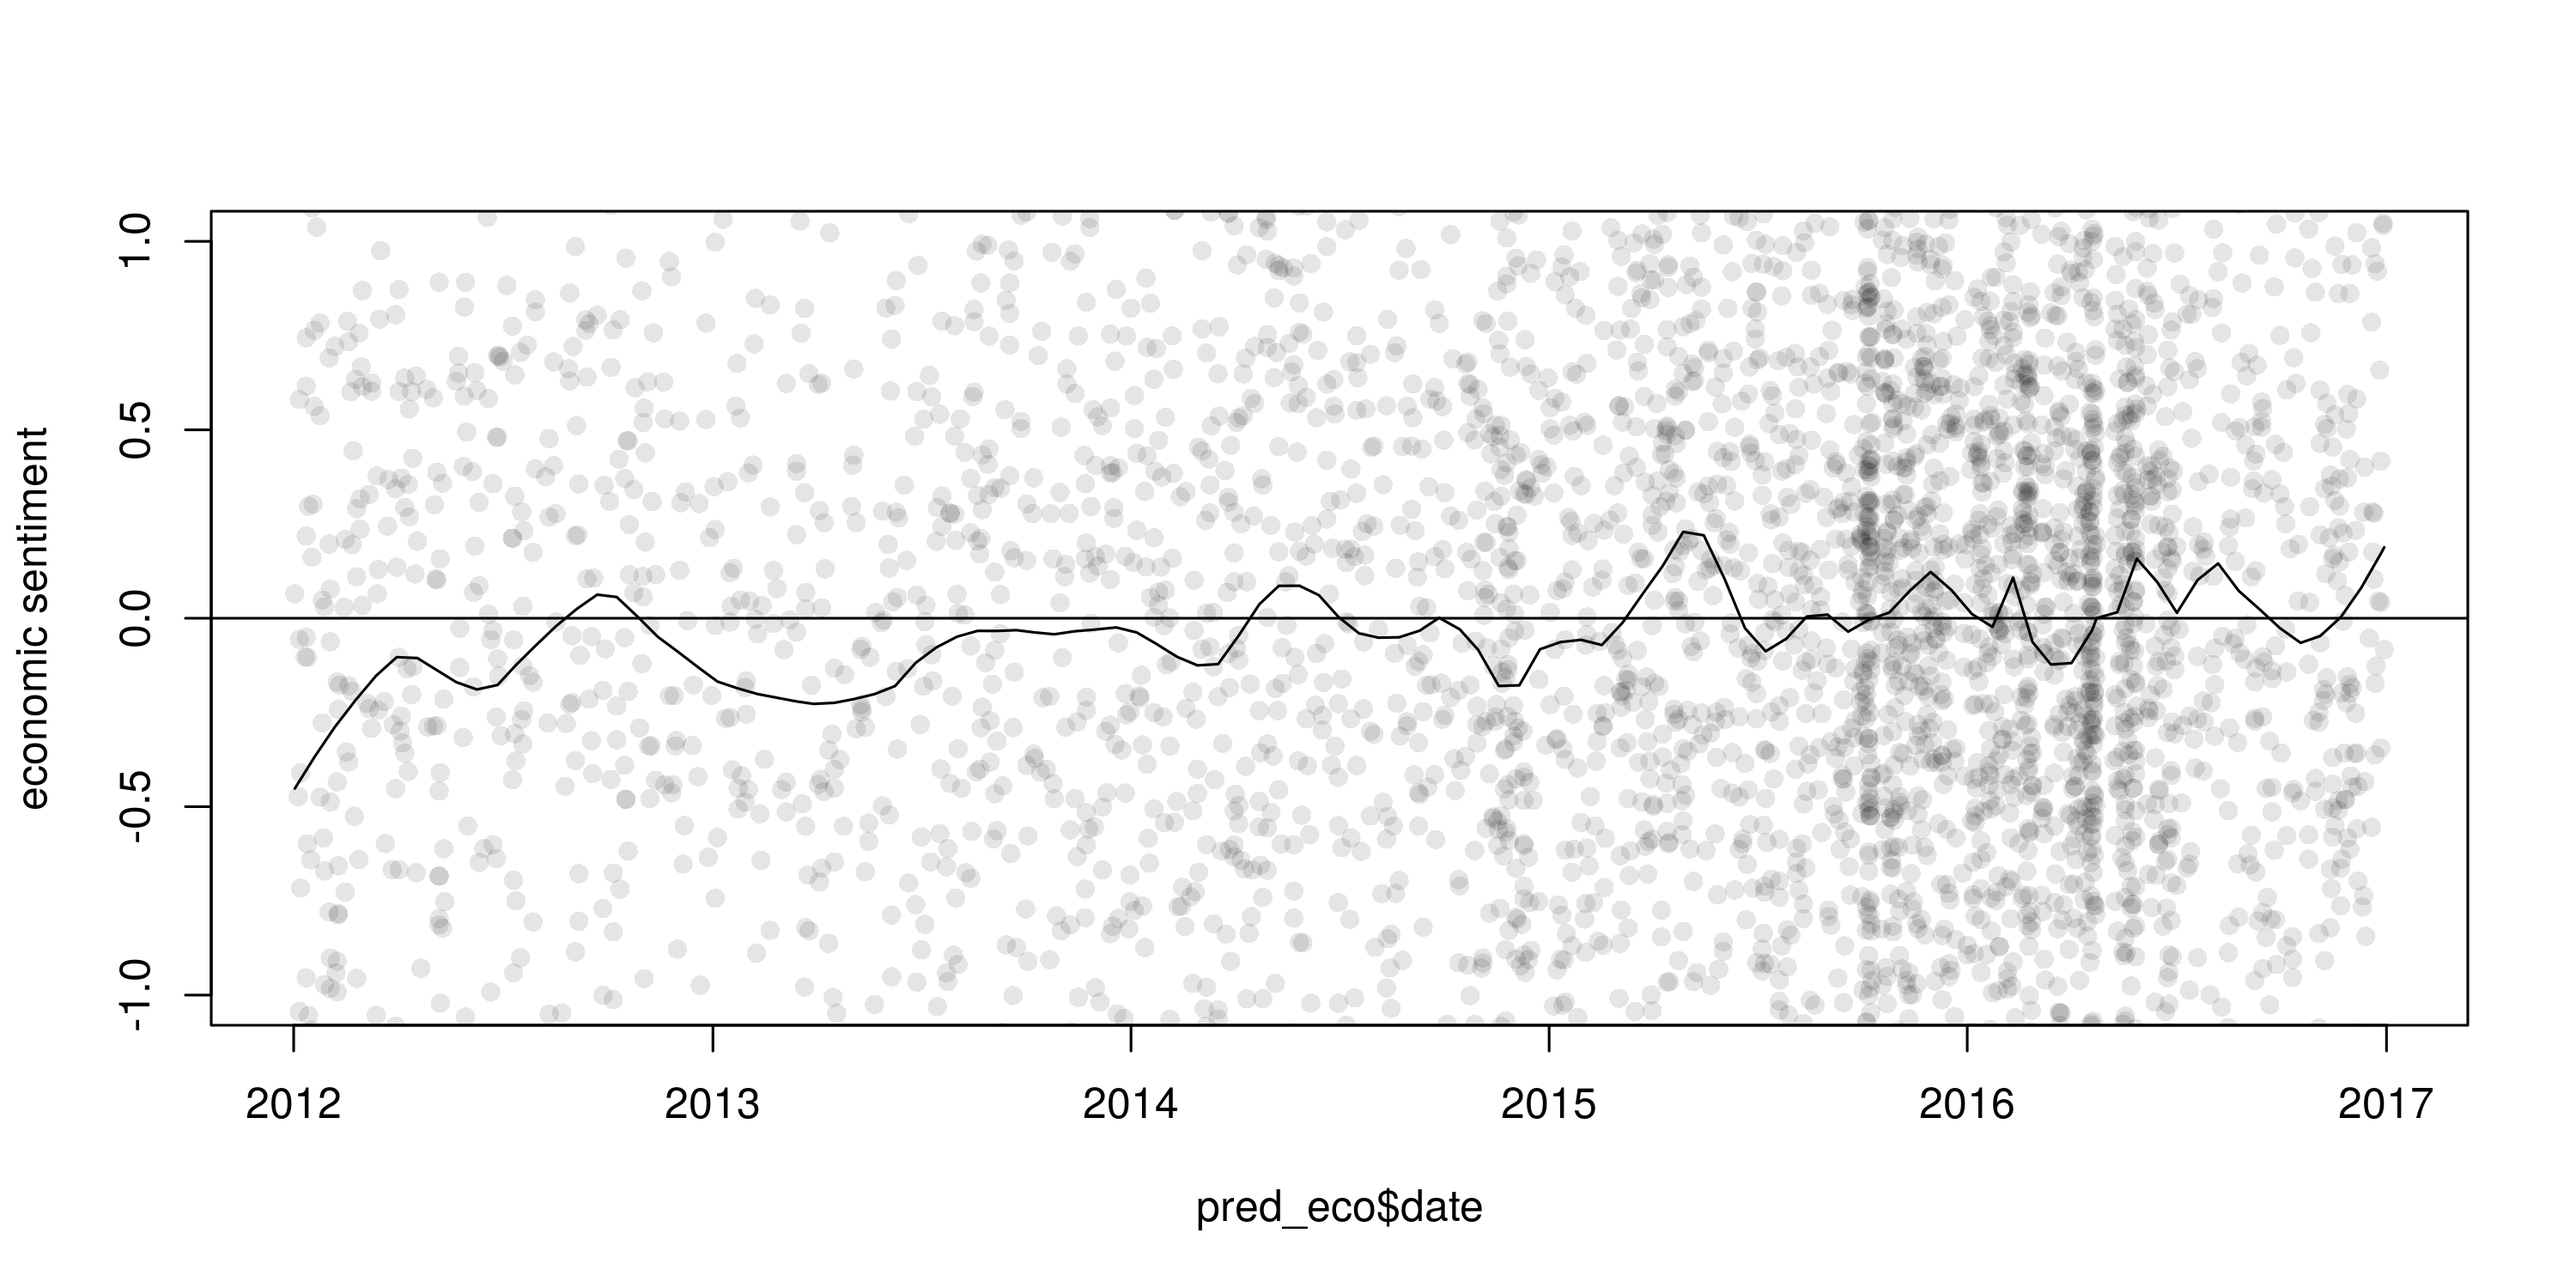
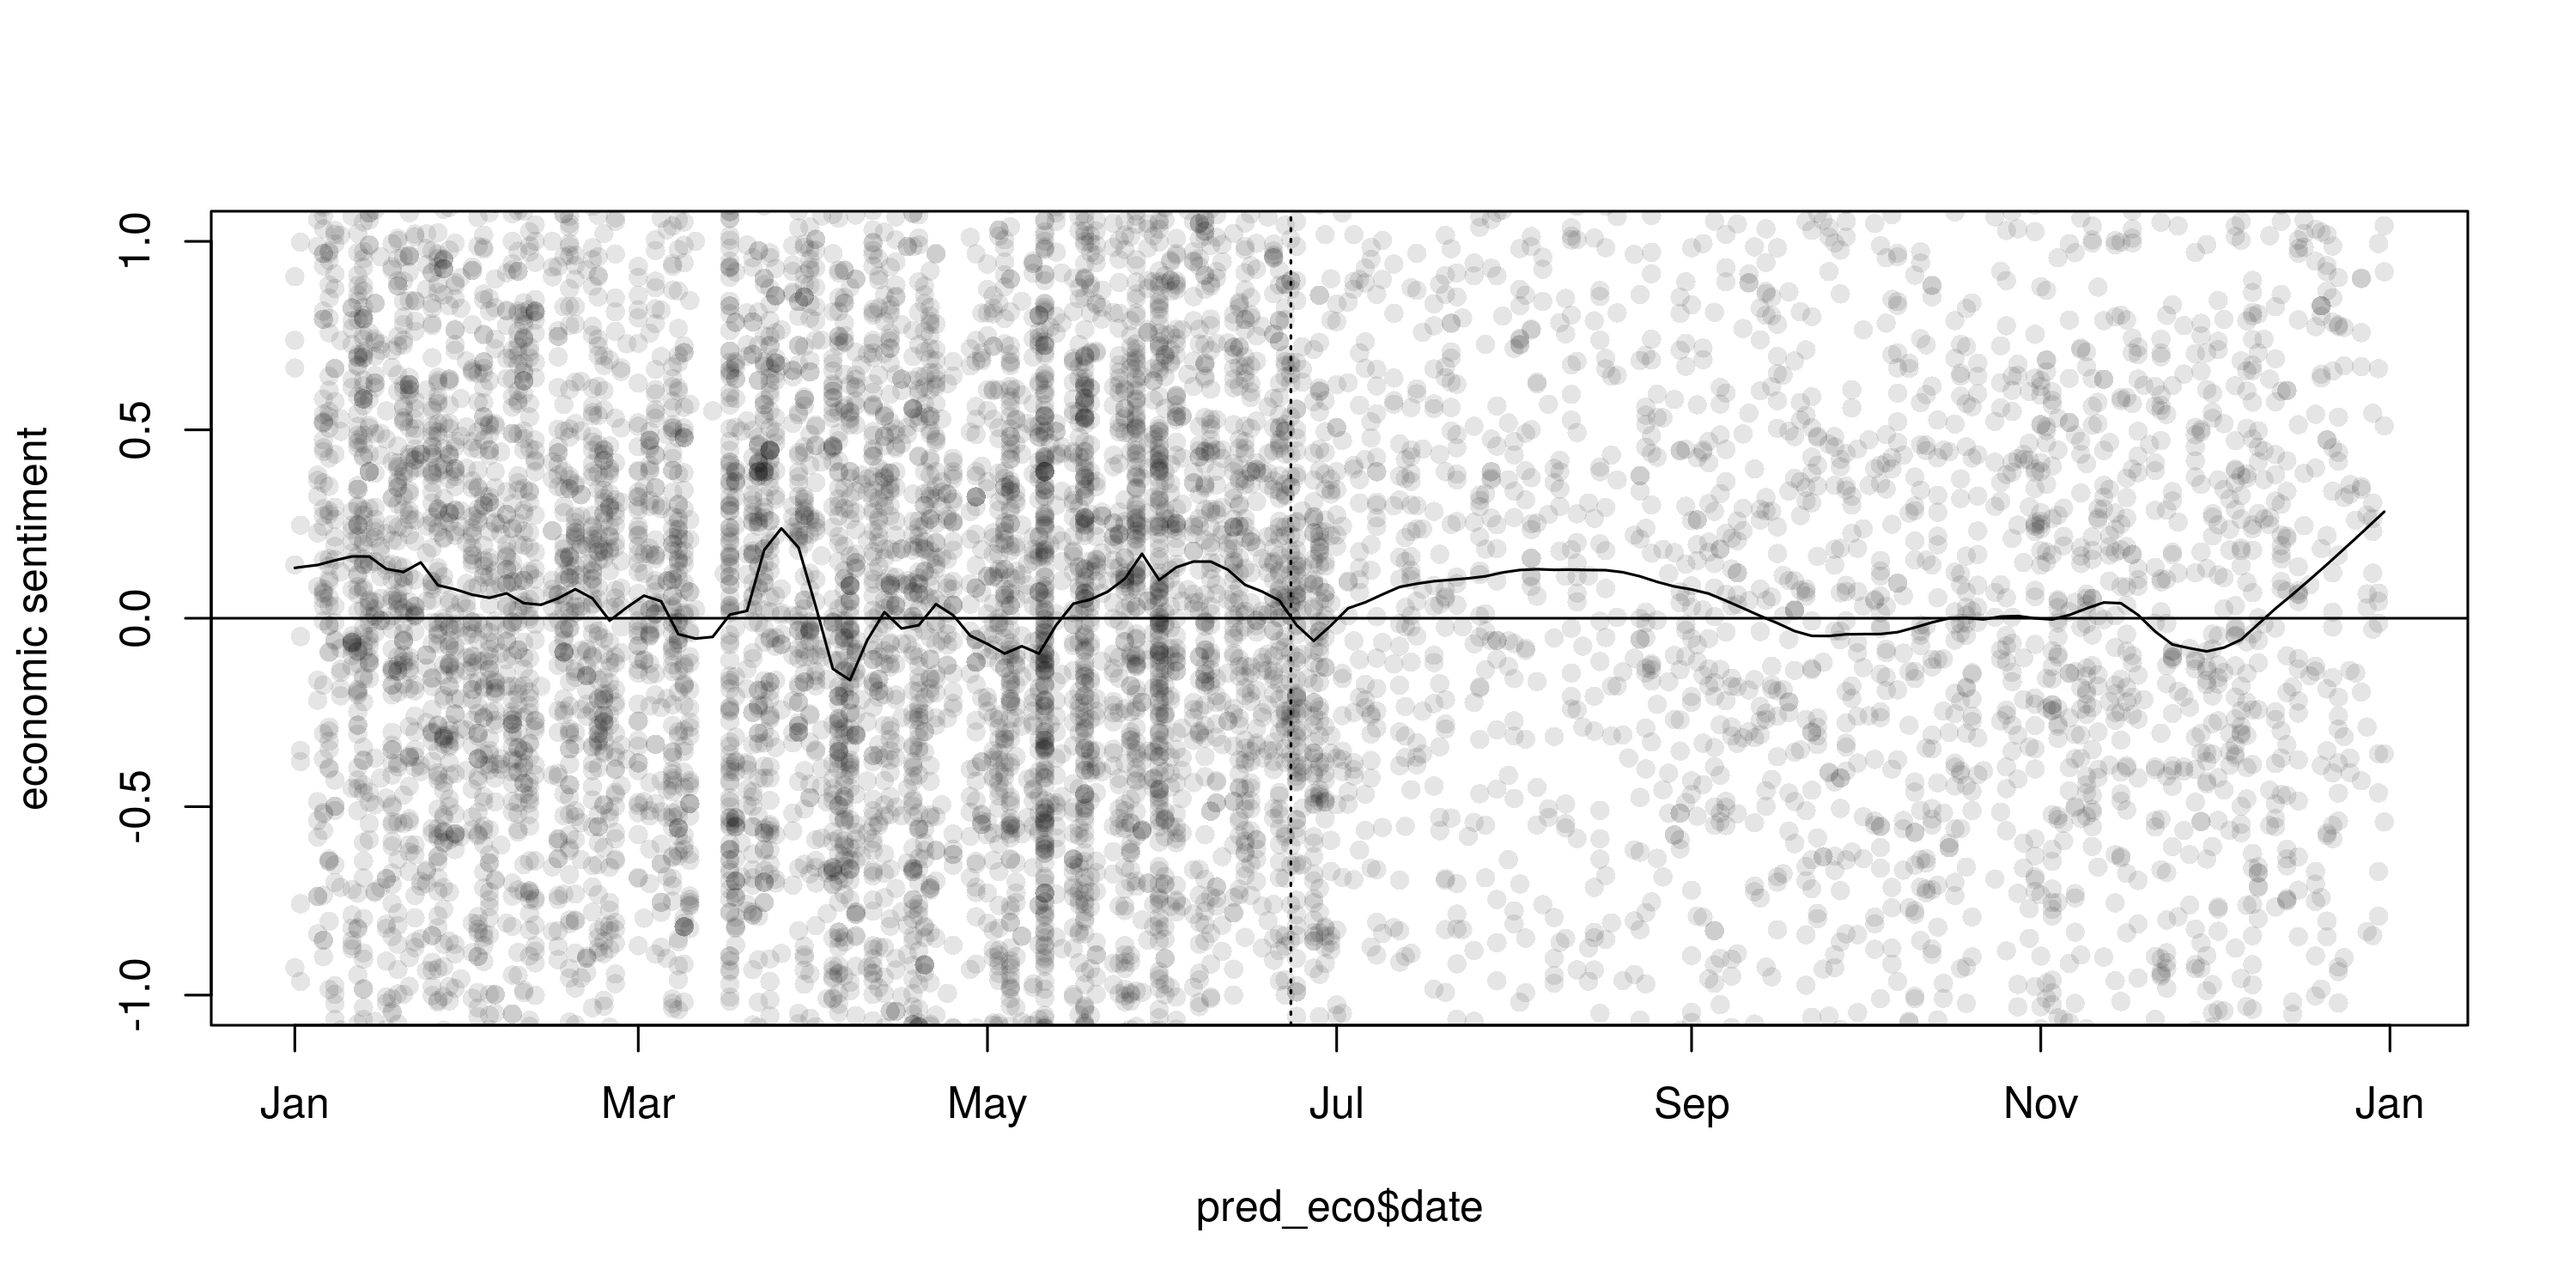
Update README example

diff --git a/README.md b/README.md
@@ -18,7 +18,7 @@ devtools::install_github("koheiw/LSS")
 How to use
 ----------
 
-LSS is created to perform sentiment analysis of long texts, but training of its models should be done on smaller units, typically sentences. The [sample dataset](https://www.dropbox.com/s/555sr2ml6wc701p/guardian-sample.RData?dl=0) contains 6,000 Guardian news articles, but larger corpus should be used to [estimate parameters accurately](https://koheiw.net/?p=629).
+LSS is created to perform sentiment analysis of long texts, but training of its models should be done on smaller units, typically sentences. The [sample sample](https://www.dropbox.com/s/kfhdoifes7z7t6j/data_corpus_guardian2016-10k.RDS?dl=1) contains 10,000 Guardian news articles from 2016.
 
 ### Fit a LSS model
 
@@ -28,9 +28,9 @@ require(LSS)
 ```
 
 ``` r
-load('/home/kohei/Dropbox/Public/guardian-sample.RData')
+corp <- readRDS('/home/kohei/Dropbox/Public/data_corpus_guardian2016-10k.rds')
 
-toks_sent <- data_corpus_guardian %>% 
+toks_sent <- corp %>% 
     corpus_reshape('sentences') %>% 
     tokens(remove_punct = TRUE)
 mt_sent <- toks_sent %>% 
@@ -72,27 +72,27 @@ LSS identifies domain specific words and weight them by sentiment.
 head(coef(lss_eco), 20) # most positive words
 ```
 
-    ##    positive       third      energy opportunity       force     success 
-    ##  0.05575652  0.04854844  0.04787103  0.04630764  0.04445485  0.04265223 
-    ##        note     reasons       model      status    strategy        paid 
-    ##  0.04190151  0.04122328  0.03510708  0.03497756  0.03353344  0.03329871 
-    ##      future     quarter       hopes     society      fourth       thing 
-    ##  0.03317974  0.03207682  0.03005912  0.02988894  0.02867550  0.02793827 
-    ##         nhs    regional 
-    ##  0.02749824  0.02734465
+    ##    positive    emerging       china   expecting cooperation        drag 
+    ##  0.03941849  0.03906230  0.03249657  0.03172653  0.03014628  0.02910002 
+    ##        asia        prof sustainable    academic challenging     markets 
+    ##  0.02873776  0.02849241  0.02765765  0.02732935  0.02682587  0.02644153 
+    ##   investors   prospects       stock      better   uncertain   strategic 
+    ##  0.02637175  0.02570061  0.02538831  0.02479903  0.02358457  0.02346433 
+    ##         hit     chinese 
+    ##  0.02302436  0.02291012
 
 ``` r
 tail(coef(lss_eco), 20) # most negative words
 ```
 
-    ##     cutting         fed     warning       warns      blamed     raising 
-    ## -0.04292397 -0.04335132 -0.04398681 -0.04410646 -0.04431494 -0.04536274 
-    ##    interest      warned       sharp    treasury       rates      caused 
-    ## -0.04613241 -0.04662480 -0.04703221 -0.04828769 -0.05035697 -0.05085765 
-    ##        debt       raise       fears         low     turmoil        poor 
-    ## -0.05216854 -0.05221771 -0.05235718 -0.05376015 -0.05452033 -0.05900819 
-    ##    negative         bad 
-    ## -0.06527032 -0.07853763
+    ##     downturn       macron     suggests     downbeat         debt 
+    ##  -0.03257441  -0.03258820  -0.03277442  -0.03309793  -0.03386571 
+    ##         data policymakers   unbalanced       shrink unemployment 
+    ##  -0.03524238  -0.03745570  -0.03934074  -0.03944345  -0.03987688 
+    ##    suggested          bad     pantheon      cutting       shocks 
+    ##  -0.04036920  -0.04047418  -0.04054125  -0.04082423  -0.04267978 
+    ##        rates          rba         rate          cut     negative 
+    ##  -0.04405703  -0.04789902  -0.05417844  -0.05498620  -0.05697134
 
 #### Political words
 
@@ -100,33 +100,37 @@ tail(coef(lss_eco), 20) # most negative words
 head(coef(lss_pol), 20) # most positive words
 ```
 
-    ##      third       team      force    reasons    perfect    playing 
-    ## 0.04854844 0.04720371 0.04445485 0.04122328 0.03946390 0.03807861 
-    ##     writes     moment       paid     future opposition      views 
-    ## 0.03511611 0.03394436 0.03329871 0.03317974 0.03249943 0.03221336 
-    ##      ideas      price    science       bill       2016     modern 
-    ## 0.03167905 0.02991380 0.02897796 0.02874248 0.02768428 0.02752270 
-    ##      faith  elections 
-    ## 0.02478055 0.02453918
+    ##            kong            hong  constitutional          robert 
+    ##      0.04137591      0.03633278      0.03548125      0.02879851 
+    ##         elected          career        guardian               f 
+    ##      0.02865901      0.02862221      0.02838269      0.02735207 
+    ##            play      activities    interference representatives 
+    ##      0.02630253      0.02611407      0.02610918      0.02522913 
+    ##           links        military         attempt         correct 
+    ##      0.02309744      0.02309173      0.02290495      0.02283412 
+    ##        lecturer          action       activists      washington 
+    ##      0.02246062      0.02243432      0.02175429      0.02136932
 
 ``` r
 tail(coef(lss_pol), 20) # most negative words
 ```
 
-    ##         data         lack      central          men     rhetoric 
-    ##  -0.02875861  -0.03004615  -0.03084299  -0.03114291  -0.03126121 
-    ##     pressure   criticised        power    discourse         deep 
-    ##  -0.03267190  -0.03282361  -0.03423453  -0.03511987  -0.03751972 
-    ##       crisis     struggle increasingly   chancellor        anger 
-    ##  -0.03869216  -0.03988131  -0.04076471  -0.04156370  -0.04255494 
-    ##    austerity         talk        rates      turmoil      happens 
-    ##  -0.04289836  -0.04358038  -0.05035697  -0.05452033  -0.05498455
+    ##       debate  calculation         rise  uncertainty        union 
+    ##  -0.02469601  -0.02591610  -0.02603371  -0.02624996  -0.02637228 
+    ##    prisoners       brexit     american     averages      divided 
+    ##  -0.02651267  -0.02704382  -0.02865085  -0.02874191  -0.02876009 
+    ##    landscape        often consequences        dirty      ratings 
+    ##  -0.02886668  -0.02944733  -0.03048922  -0.03102530  -0.03131321 
+    ##       causes    dominated  complicated       closer    americans 
+    ##  -0.03188798  -0.03228346  -0.03351240  -0.03814986  -0.04611773
 
 Predict sentiment of news
 -------------------------
 
+In the plots, circles indicate estimated sentiment of news articles. After the UK's referendum on EU membership on 23 June, we can see sharp drop in both economic and political sentiment in the newspaper articles. Economic sentiment recovered within a month, but negative political sentiment sustained.
+
 ``` r
-mt <- dfm(data_corpus_guardian)
+mt <- dfm(corp)
 ```
 
 ### Economic sentiment
@@ -134,12 +138,11 @@ mt <- dfm(data_corpus_guardian)
 ``` r
 pred_eco <- as.data.frame(predict(lss_eco, newdata = mt, density = TRUE))
 pred_eco$date <- docvars(mt, 'date')
-pred_eco <- subset(pred_eco, density > quantile(density, 0.25))
 
 plot(pred_eco$date, pred_eco$fit, pch = 16, col = rgb(0, 0, 0, 0.1),
      ylim = c(-1, 1), ylab = 'economic sentiment')
 lines(lowess(pred_eco$date, pred_eco$fit, f = 0.05), col = 1)
-abline(h = 0)
+abline(h = 0, v = as.Date("2016-06-23"), lty = c(1, 3))
 ```
 
 ![](man/images/unnamed-chunk-9-1.png)
@@ -149,12 +152,11 @@ abline(h = 0)
 ``` r
 pred_pol <- as.data.frame(predict(lss_pol, newdata = mt, density = TRUE))
 pred_pol$date <- docvars(mt, 'date')
-pred_pol <- subset(pred_pol, density > quantile(density, 0.25))
 
 plot(pred_pol$date, pred_pol$fit, pch = 16, col = rgb(1, 0, 0, 0.1),
      ylim = c(-1, 1), ylab = 'political sentiment')
 lines(lowess(pred_pol$date, pred_pol$fit, f = 0.05), col = 2)
-abline(h = 0)
+abline(h = 0, v = as.Date("2016-06-23"), lty = c(1, 3))
 ```
 
 ![](man/images/unnamed-chunk-10-1.png)
@@ -169,7 +171,7 @@ lines(lowess(pred_eco$date, pred_eco$fit, f = 0.05), col = 1)
 lines(lowess(pred_pol$date, pred_pol$fit, f = 0.05), col = 2)
 abline(h = 0)
 legend('topright', lty = 1, col = 1:2, legend = c('political', 'economic'))
-abline(h = 0)
+abline(h = 0, v = as.Date("2016-06-23"), lty = c(1, 3))
 ```
 
 ![](man/images/unnamed-chunk-11-1.png)
